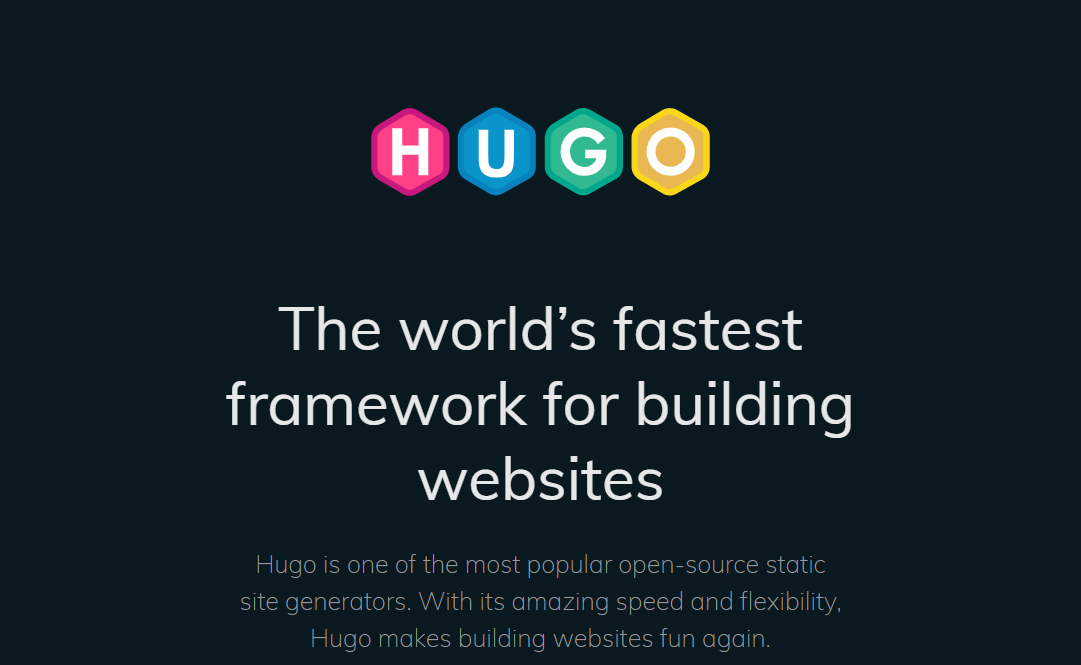
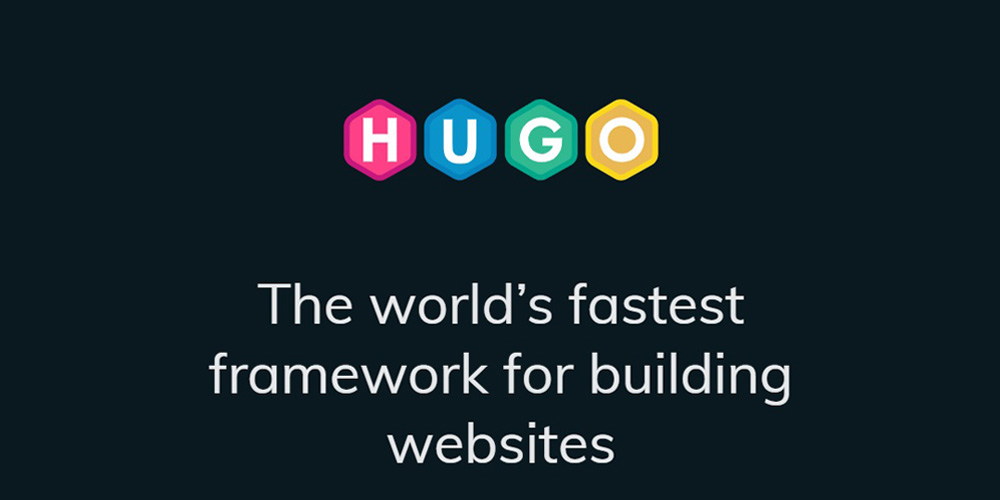
update cover

diff --git a/content/post/markdown-syntax/index.md b/content/post/markdown-syntax/index.md
@@ -2,6 +2,7 @@
 title: Markdown Syntax Guide
 date: 2023-09-07
 description: Sample article showcasing basic Markdown syntax and formatting for HTML elements.
+image : cover.jpg
 tags: 
     - themes
     - Markdown

diff --git a/content/post/math-typesetting/index.md b/content/post/math-typesetting/index.md
@@ -3,6 +3,7 @@ title: Math Typesetting
 description: Math typesetting using KaTeX
 date: 2023-08-24 00:00:00+0000
 math: true
+image: cover.jpg
 tags: 
     - themes
 categories:
